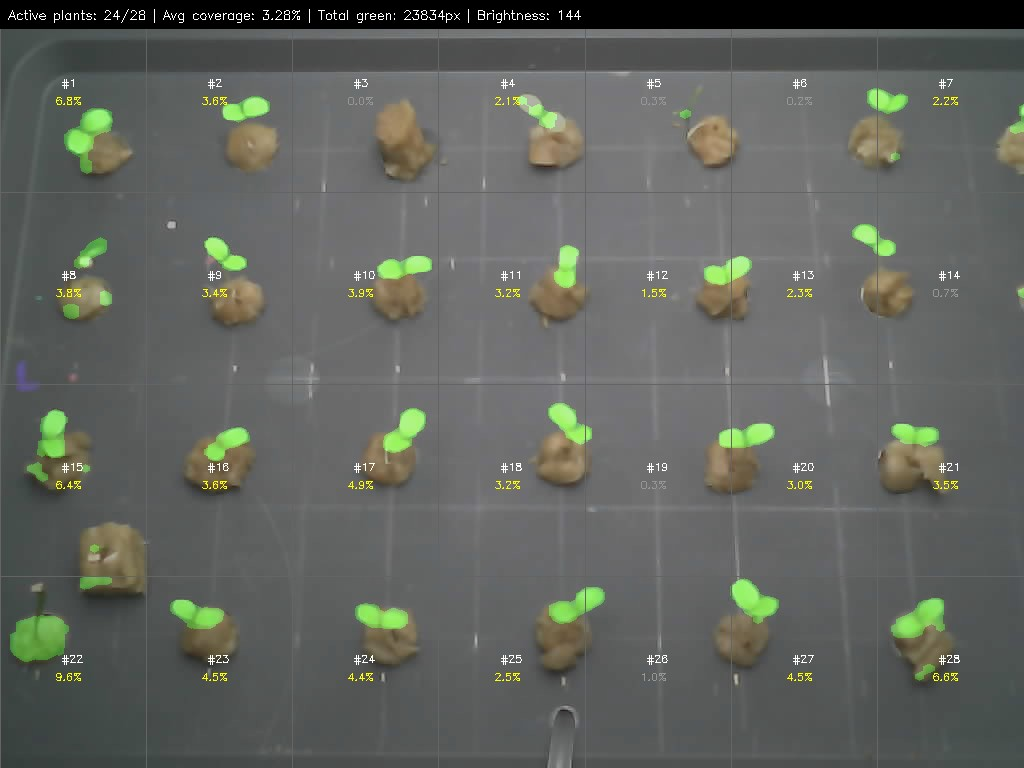
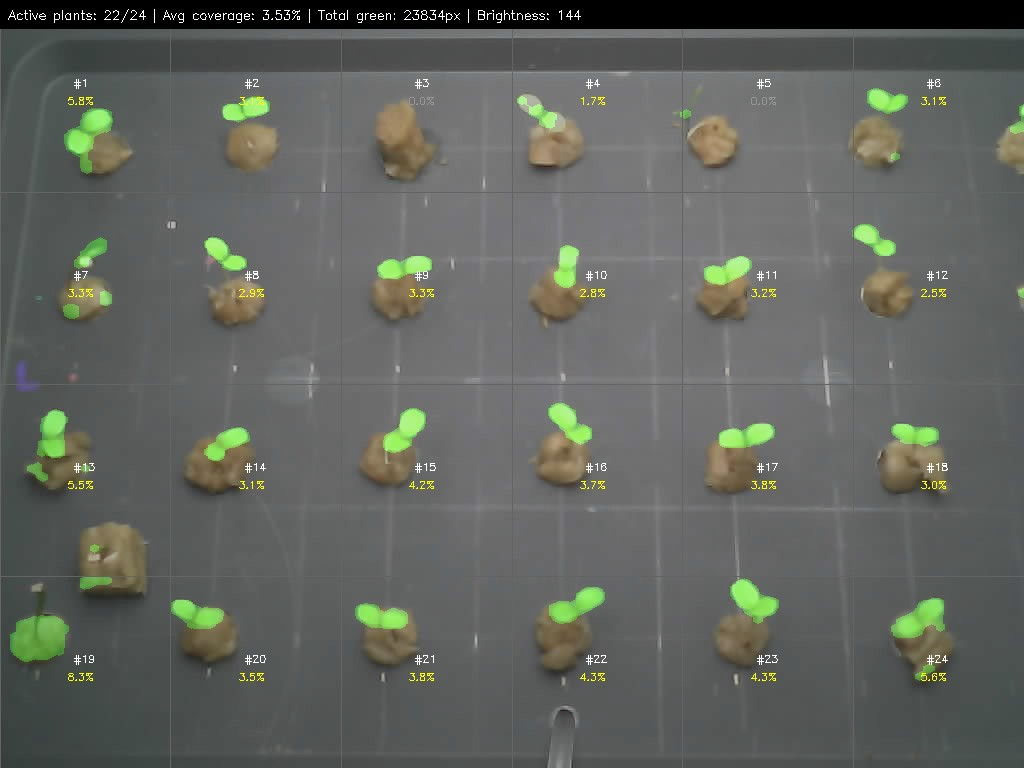
Fix grid to 4x6 (24 plants), 7th column cut off in captures

diff --git a/analyze.py b/analyze.py
@@ -36,7 +36,7 @@ STATE_FILE = os.path.join(OUTPUT_DIR, ".state.json")
 
 # Grid: 4 rows x 7 columns = 28 plant slots
 GRID_ROWS = 4
-GRID_COLS = 7
+GRID_COLS = 6
 
 # HSV thresholds for yellow-green cotyledons under grow light
 HSV_LOWER = (25, 30, 100)
@@ -184,7 +184,7 @@ def draw_annotated(img, mask, cells, measurements, stats):
     # Summary bar
     cv2.rectangle(out, (0, 0), (w, 28), (0, 0, 0), -1)
     active = sum(1 for m in measurements if m["coverage_pct"] > 0.5)
-    summary = (f"Active plants: {active}/28 | "
+    summary = (f"Active plants: {active}/{GRID_ROWS * GRID_COLS} | "
                f"Avg coverage: {stats['avg_coverage']:.2f}% | "
                f"Total green: {stats['total_green_px']}px | "
                f"Brightness: {stats['brightness']:.0f}")
@@ -242,7 +242,7 @@ def analyze_image(filepath):
         cv2.imwrite(ann_path, annotated, [cv2.IMWRITE_JPEG_QUALITY, 90])
 
     q = "OK" if quality_ok else "WARN"
-    print(f"  {ts_str} | active={len(active_cells)}/28 | "
+    print(f"  {ts_str} | active={len(active_cells)}/{GRID_ROWS * GRID_COLS} | "
           f"avg={stats['avg_coverage']:.2f}% | "
           f"total_green={stats['total_coverage_pct']:.2f}% | "
           f"quality={q}")
@@ -354,7 +354,7 @@ def cmd_tune(image_path):
     print(f"\n  HSV: {HSV_LOWER} - {HSV_UPPER}")
     print(f"  Green pixels: {np.sum(mask > 0)} / {mask.size} "
           f"({np.sum(mask > 0) / mask.size * 100:.2f}%)")
-    print(f"  Active cells: {len(active)}/28")
+    print(f"  Active cells: {len(active)}/{GRID_ROWS * GRID_COLS}")
     print(f"\n  Per-cell coverage:")
     for m in measurements:
         marker = "█" if m["coverage_pct"] > 0.5 else "·"
